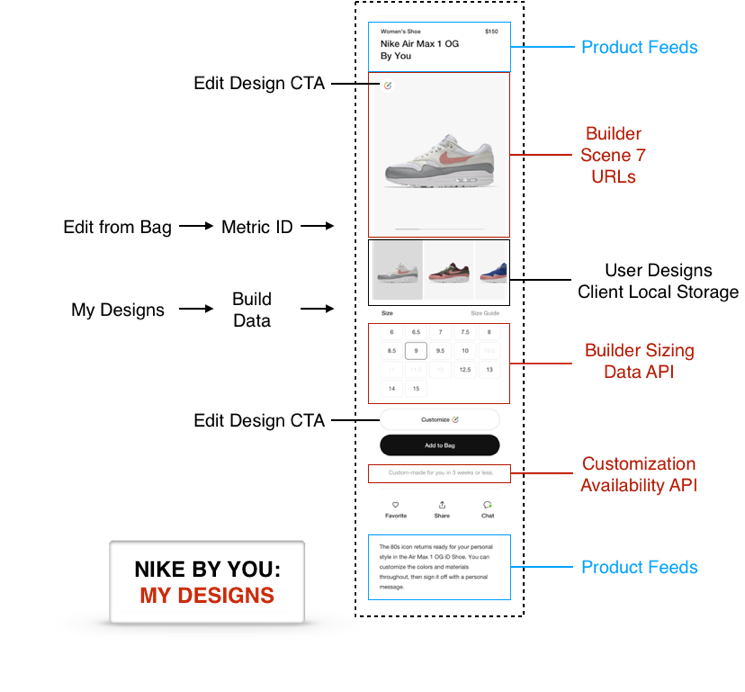
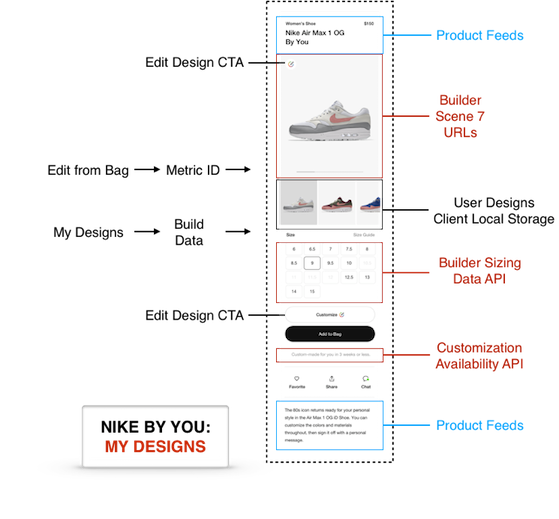
APID-587: Convert Customization docs to manifest project - Fixed YAML definition, added missing image, other fixes

diff --git a/content/doc/commerce/customization/show-design-ux.md b/content/doc/commerce/customization/show-design-ux.md
@@ -29,17 +29,3 @@ The consumer has selected to edit the design via the 'Edit Design' CTA, so it's 
 #### Sample JavaScript
 
 For a sample JavaScript class that shows how you might interact with the Builder, see [builderBridge.js](https://bitbucket.nike.com/projects/NID/repos/builder-experience/browse/integration/builderBridge.js).
-
-<!-- Can add when new Builder methods become available
-## Share a Design
-
-**Share designs**: How do I share my design on social media?
-
-Show the consumer a way to share their design on social media.
-
-**Display a 'Share my design' CTA that pops a modal with sharing options**
-
-- Get shareable links to Facebook, Twitter, and Pinterest.
-- Get a shareable link to open the design on Nike.com
-- Share URLs for a design can even be obtained for products that cannot be purchased, and before selecting gender/size for a purchaseable product.
--->

diff --git a/src/doc/commerce/customization/show-design-ux.md b/src/doc/commerce/customization/show-design-ux.md
@@ -29,17 +29,3 @@ The consumer has selected to edit the design via the 'Edit Design' CTA, so it's 
 #### Sample JavaScript
 
 For a sample JavaScript class that shows how you might interact with the Builder, see [builderBridge.js](https://bitbucket.nike.com/projects/NID/repos/builder-experience/browse/integration/builderBridge.js).
-
-<!-- Can add when new Builder methods become available
-## Share a Design
-
-**Share designs**: How do I share my design on social media?
-
-Show the consumer a way to share their design on social media.
-
-**Display a 'Share my design' CTA that pops a modal with sharing options**
-
-- Get shareable links to Facebook, Twitter, and Pinterest.
-- Get a shareable link to open the design on Nike.com
-- Share URLs for a design can even be obtained for products that cannot be purchased, and before selecting gender/size for a purchaseable product.
--->
